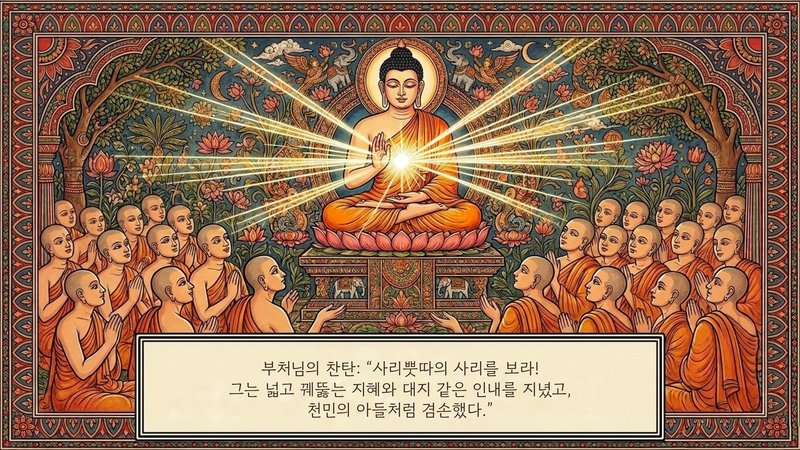
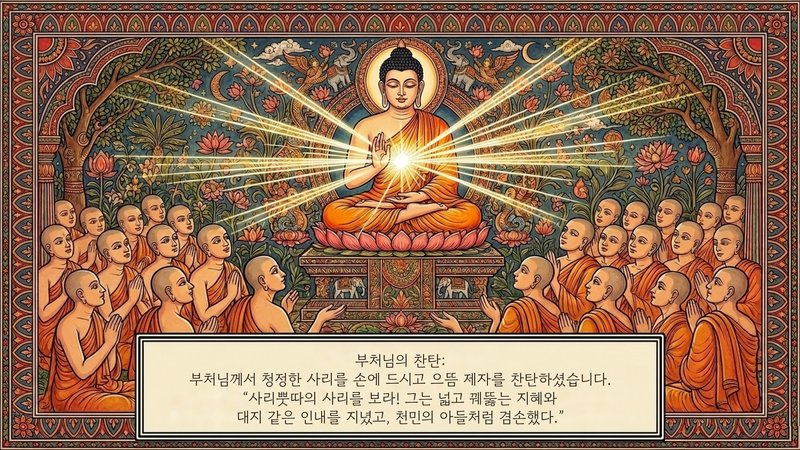
검수용 한글 그림 [skip ci]

Changed region(s): [[0.2188, 0.7778, 0.75, 0.9644]]

diff --git a/qa.md b/qa.md
@@ -1,4 +1,7 @@
 # 자동 검수 결과
 
-이번에 만든 그림 중 문제 의심 0곳
+이번에 만든 그림 중 문제 의심 3곳
 
+- Foremost-Monks/04-Maha-Kassapa 36번 그림, 상자 1 [자리] 한글 글(1989,772)이 상자 점(1795,357)에서 멀리 그려짐
+- Foremost-Monks/05-Anuruddha 21번 그림, 상자 1 [삐져나옴] 글이 말풍선·상자 가장자리에 닿거나 밖으로 나감 (여백 0px)
+- Foremost-Monks/05-Anuruddha 50번 그림, 상자 1 [삐져나옴] 글이 말풍선·상자 가장자리에 닿거나 밖으로 나감 (여백 1px)
